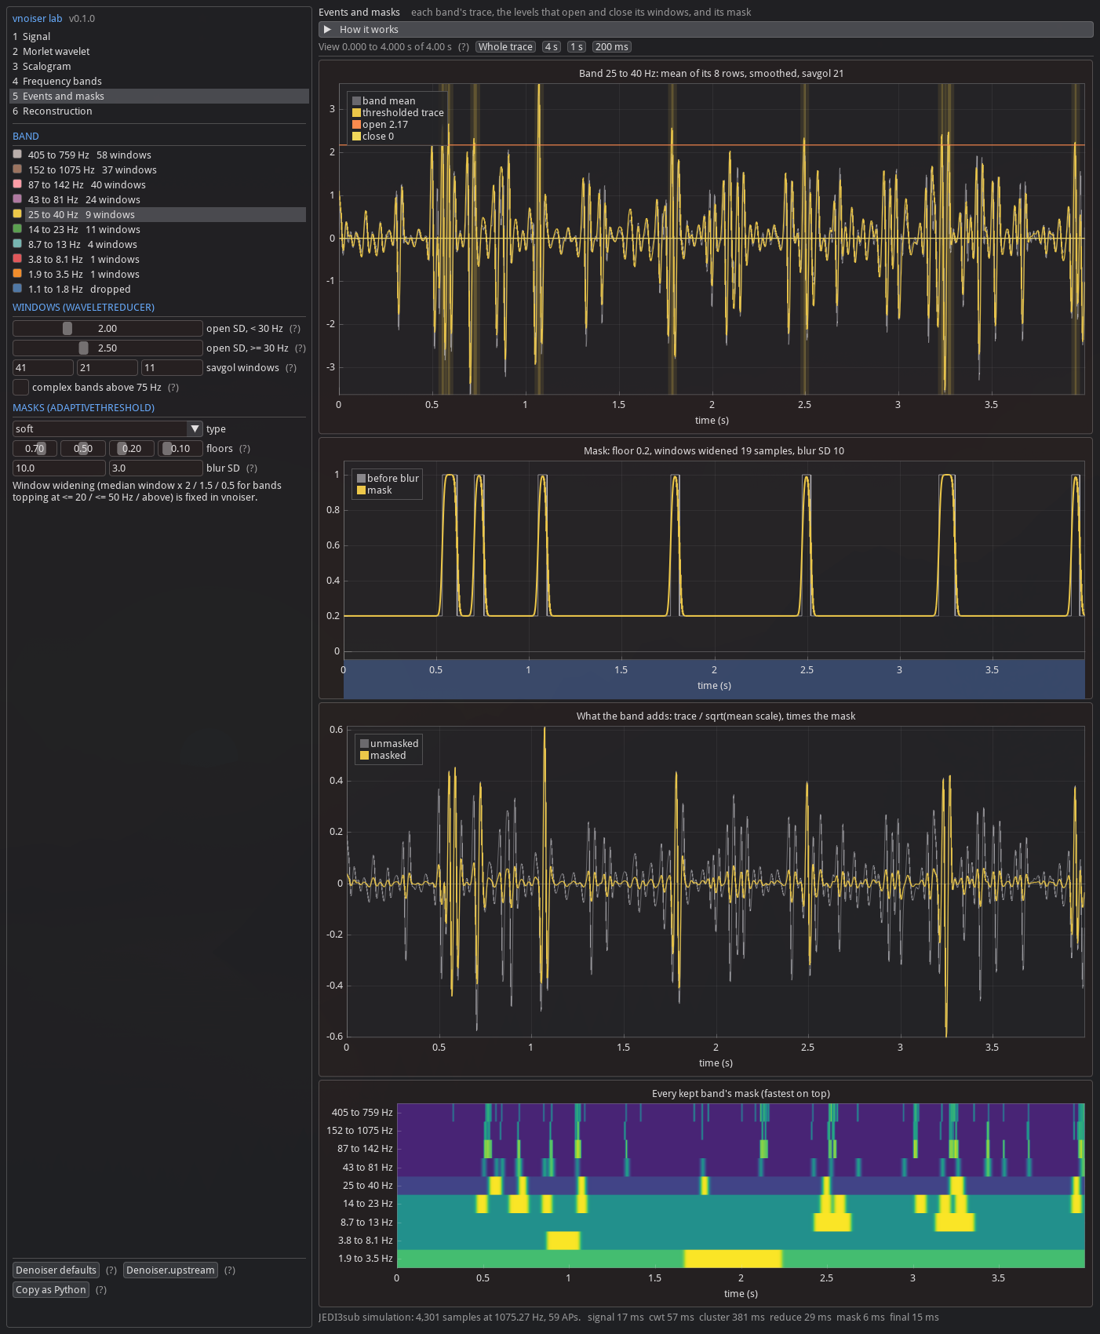
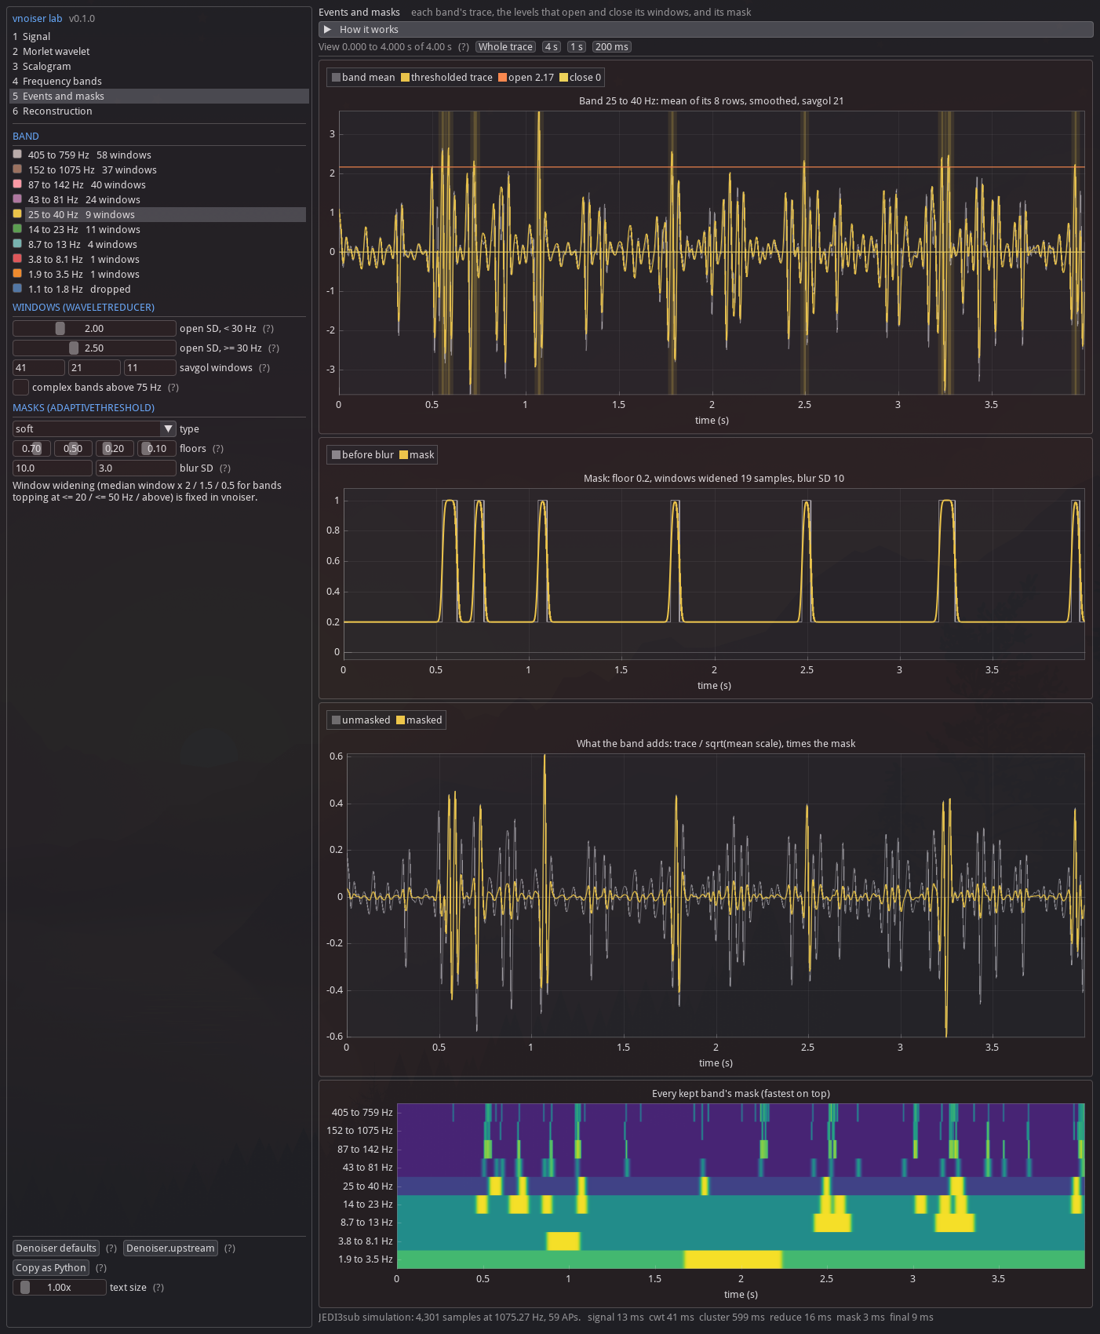
label ground truth, tighten ui and readme text

diff --git a/src/imgui_vnoiser/app.py b/src/imgui_vnoiser/app.py
@@ -23,7 +23,7 @@ WIDTH_RAIL_EM = 26
 
 # the rail: a page key, its name, and the line under the name on its page
 PAGES = (
-    ("signal", "1  Signal", "the trace going in: synthetic with a known clean trace, a test signal, or your own"),
+    ("signal", "1  Signal", "input trace: synthetic (with ground truth), a test signal, or a file"),
     ("wavelet", "2  Morlet wavelet", "the filter every row of the transform applies, and how its scales tile frequency"),
     ("scalogram", "3  Scalogram", "the trace after the wavelet transform: one row per scale, one column per sample"),
     ("bands", "4  Frequency bands", "rows that rise and fall together are grouped: PCA, then Ward clustering"),
@@ -36,8 +36,9 @@ ABOUT = {
     "signal": (
         "vnoiser expects a z-scored dF/F trace with depolarization positive (JEDI fluorescence falls on "
         "depolarization, so the pipeline flips its sign).",
-        "Synthetic traces carry the clean trace they were made from (green), so Reconstruction can tell how much "
-        "of the noise was removed and how much of the signal went with it.",
+        "Synthetic sources have a ground truth (green): the trace before noise was added. For the JEDI3sub "
+        "simulation it is the indicator response without line-scan noise or AP artifacts. Reconstruction compares "
+        "the denoised trace against it.",
         "Tones, the chirp, the impulse and the step are for seeing the transform itself: an impulse shows each "
         "row's wavelet, a chirp shows the rows lighting up one after another.",
     ),
@@ -49,8 +50,8 @@ ABOUT = {
         "bands overlap heavily.",
         "Every row has the same shape on a log-frequency axis (constant Q): fast rows are short and wide in "
         "frequency, slow rows long and narrow.",
-        "Rows centered above fs / 2 (scale below 2 C) see frequencies the recording cannot hold; they respond "
-        "to the noise floor at the top of the band.",
+        "Rows centered above fs / 2 (scale below 2 C) have their center frequency above Nyquist; they only pick up "
+        "the lower tail of their band.",
     ),
     "scalogram": (
         "Each row is the trace filtered by one scaled wavelet. Its magnitude says how much of that frequency is "
@@ -65,8 +66,8 @@ ABOUT = {
         "observations (30 components). Rows whose envelopes rise and fall together land close in PC space.",
         "Ward clustering on the first 10 PC scores builds the tree; cutting it at 10 clusters gives the bands "
         "(sublabels). The 5-cluster cut is computed but not used.",
-        "Neighboring rows overlap a lot in frequency, so bands come out as contiguous frequency ranges. Their "
-        "edges move with the data: an event-rich trace gets different bands from a quiet one.",
+        "Neighboring rows overlap in frequency, so bands are usually contiguous ranges, but rows near and above "
+        "fs / 2 can interleave between bands. Band edges depend on the trace.",
         "The gain curve is what summing the bands back does to a sine with every mask at 1: each band averages "
         "its rows, so the sum passes less than the input (savgol smoothing lowers it further below 75 Hz).",
     ),
@@ -85,8 +86,8 @@ ABOUT = {
         "The masked bands are summed (rescaled_signal), and a zero-phase FIR low-pass of the input (1 Hz, 2 s "
         "Hamming) is added back as the baseline: denoised = rescaled_signal + baseline.",
         "The archive's denoised_trace_scans.pkl holds the sum without the baseline; untick Add baseline to see it.",
-        "Leave a band out to see what it carries. The spectrum shows which frequencies were removed: the floor "
-        "between events in every band, and whole bands that never opened a window.",
+        "Untick a band to remove it from the sum. The spectrum shows what was removed: the masked-down part of "
+        "each band between events, and any band that opened no window.",
     ),
 }
 
@@ -393,7 +394,7 @@ class App:
             hint(tip)
         heading("Shape")
         _, sp.fs = imgui.input_float("fs (Hz)", sp.fs, 100.0, 1000.0, "%.4g")
-        hint("The lab's line scans run at 1075.2688 Hz. Changing it changes every row's frequency, not the coefficients.")
+        hint("The lab's line scans run at 1075.2688 Hz. Row frequency is C fs / scale, so the same scales cover different Hz at a different fs.")
         if sp.source != "file":
             _, sp.duration_s = imgui.slider_float("duration (s)", sp.duration_s, 0.5, 120.0, "%.1f", imgui.SliderFlags_.logarithmic)
             if sp.source != "jedi":
@@ -418,7 +419,7 @@ class App:
                 _, value = imgui.slider_int("column", sp.column + 1, 1, columns)
                 sp.column = value - 1
             _, sp.zscore = imgui.checkbox("z-score", sp.zscore)
-            hint("vnoiser's thresholds are in SDs of each band, so scale matters little, but the 1 Hz baseline and the plots read in z.")
+            hint("Subtract the mean and divide by the SD. Band thresholds are in SDs of each band, so this mostly changes the y units.")
         sp.fs = max(sp.fs, 1.0)
 
     def page_signal(self) -> None:
@@ -427,7 +428,7 @@ class App:
         if self.begin_time_plot("Input trace", h, "z"):
             self.line("raw", sig.x, P.RAW)
             if sig.truth is not None:
-                self.line("clean", sig.truth, P.TRUTH, 1.5)
+                self.line("ground truth", sig.truth, P.TRUTH, 1.5)
             for i, (name, times) in enumerate(sig.events_s.items()):
                 P.vlines(name, times, P.band_color(i + 2, 0.45))
             implot.end_plot()
@@ -438,7 +439,7 @@ class App:
             implot.setup_axis_scale(implot.ImAxis_.y1, implot.Scale_.log10)
             implot.plot_line("raw", run.psd["f"], run.psd["raw"], P.spec(P.RAW))
             if "truth" in run.psd:
-                implot.plot_line("clean", run.psd["f"], run.psd["truth"], P.spec(P.TRUTH, 1.5))
+                implot.plot_line("ground truth", run.psd["f"], run.psd["truth"], P.spec(P.TRUTH, 1.5))
             P.vlines("fs / 2", [sig.fs / 2], P.DIM)
             implot.end_plot()
 
@@ -482,7 +483,7 @@ class App:
             imgui.same_line()
             imgui.text(value)
         if w.freq_hz > fs / 2:
-            imgui.text_colored(P.WARN, "Above fs / 2: this row sees no real signal.")
+            imgui.text_colored(P.WARN, "Center frequency is above fs / 2.")
         above = int(np.sum(s.c * fs / s.scales > fs / 2))
         if above:
             imgui.text_wrapped(f"{above} of {int(s.n_scales)} rows sit above fs / 2 = {fs / 2:g} Hz.")
@@ -647,10 +648,10 @@ class App:
             implot.end_plot()
         mid = float(np.sqrt(freqs.min() * min(freqs.max(), sig.fs / 2)))
         gain = morlet.bank_sum(run.settings.b, run.settings.c, run.scales, sig.fs, np.array([mid]))[0]
-        if self.begin_time_plot(f"Every row's real part summed (no bands, no masks): overlapping rows give a gain of about {gain:.2g}", -1):
+        if self.begin_time_plot(f"Sum of Re W / sqrt(scale) over all rows, no bands or masks (gain about {gain:.2g})", -1):
             self.line("input", sig.x, P.RAW)
             if sig.truth is not None:
-                self.line("clean", sig.truth, P.TRUTH)
+                self.line("ground truth", sig.truth, P.TRUTH)
             self.line("sum of Re W / sqrt(scale)", run.all_rows, P.ACCENT, 1.5)
             implot.end_plot()
 
@@ -924,7 +925,7 @@ class App:
                 imgui.text_disabled(f"{name:<24}")
                 imgui.same_line()
                 imgui.text(f"{value:.4g}")
-            hint_text = "RMSE compares shapes: each trace's mean is removed first. Without the baseline the clean trace loses its own 1 Hz low-pass too."
+            hint_text = "RMSE and correlation subtract each trace's mean first. With Add baseline off, the ground truth has its own 1 Hz low-pass removed before comparing."
             hint(hint_text)
 
     def page_final(self) -> None:
@@ -949,7 +950,7 @@ class App:
         if self.begin_time_plot("Denoised trace", h):
             self.line("raw", sig.x, P.RAW)
             if sig.truth is not None:
-                self.line("clean", sig.truth, P.TRUTH, 1.5)
+                self.line("ground truth", sig.truth, P.TRUTH, 1.5)
             if run.settings.add_baseline:
                 self.line("baseline (1 Hz FIR)", run.baseline, P.CLOSE, 1.0)
             self.line("denoised", run.denoised, P.ACCENT, 1.8)
@@ -969,7 +970,7 @@ class App:
             f = run.psd["f"]
             implot.plot_line("raw", f, run.psd["raw"], P.spec(P.RAW))
             if "truth" in run.psd:
-                implot.plot_line("clean", f, run.psd["truth"], P.spec(P.TRUTH, 1.5))
+                implot.plot_line("ground truth", f, run.psd["truth"], P.spec(P.TRUTH, 1.5))
             implot.plot_line("denoised", f, run.psd["denoised"] + 1e-30, P.spec(P.ACCENT, 1.8))
             implot.end_plot()
 

diff --git a/src/imgui_vnoiser/signals.py b/src/imgui_vnoiser/signals.py
@@ -1,5 +1,5 @@
 """
-Input traces for the window: synthetic ones with a known clean trace, test signals that show what the wavelet
+Input traces for the window: synthetic ones with a ground truth, test signals that show what the wavelet
 transform does (tones, a chirp, an impulse, a step), and traces read from a file.
 """
 
@@ -11,7 +11,7 @@ import numpy as np
 
 # the source key, its name in the Signal page's list, and the line under it
 SOURCES = (
-    ("spikes", "Spikes and bumps", "fast spikes riding on slow bumps, white noise on top; the clean trace is known"),
+    ("spikes", "Spikes and bumps", "spikes on slow Gaussian bumps, plus white noise"),
     ("jedi", "JEDI3sub simulation", "vnoiser.simulate_jedi3sub_trace: APs, bursts, PSPs, ripples and line-scan noise, sign-flipped and z-scored"),
     ("tones", "Sum of tones", "sines at chosen frequencies, each switching on for part of the trace"),
     ("chirp", "Chirp", "one sine sweeping from a low to a high frequency, log-spaced like the wavelet rows"),
@@ -47,7 +47,7 @@ class Signal:
         name (str): What the plots call it
         fs (float): Sampling rate in Hz
         x (np.ndarray): The trace the denoiser runs on
-        truth (np.ndarray | None): The clean trace in the same units, when known
+        truth (np.ndarray | None): Ground truth in the same units, when known
         note (str): One line about where it came from
         columns (int): How many columns the source file had
     """
@@ -88,22 +88,22 @@ def make_signal(p: SignalParams) -> Signal:
     t = np.arange(n) / p.fs
     events = {}
     if p.source == "spikes":
-        clean, events = spikes_and_bumps(t)
+        truth, events = spikes_and_bumps(t)
     elif p.source == "tones":
-        clean = tones(t, parse_floats(p.tones_hz))
+        truth = tones(t, parse_floats(p.tones_hz))
     elif p.source == "chirp":
-        clean = chirp(t, p.chirp_lo_hz, p.chirp_hi_hz)
+        truth = chirp(t, p.chirp_lo_hz, p.chirp_hi_hz)
     elif p.source == "impulse":
-        clean = np.zeros(n)
-        clean[n // 2] = 1.0
+        truth = np.zeros(n)
+        truth[n // 2] = 1.0
     elif p.source == "step":
-        clean = (t >= t[-1] / 2).astype(float)
+        truth = (t >= t[-1] / 2).astype(float)
     else:
         raise ValueError(f"Unknown source {p.source!r}.")
     name = dict((k, label) for k, label, _ in SOURCES)[p.source]
-    x = clean + p.noise_sd * rng.standard_normal(n)
+    x = truth + p.noise_sd * rng.standard_normal(n)
     note = f"{n:,} samples at {p.fs:g} Hz, noise SD {p.noise_sd:g}"
-    return Signal(name=name, fs=p.fs, x=x, truth=clean, note=note, events_s=events)
+    return Signal(name=name, fs=p.fs, x=x, truth=truth, note=note, events_s=events)
 
 
 def spike_shape(d: np.ndarray) -> np.ndarray:

diff --git a/src/imgui_vnoiser/pipeline.py b/src/imgui_vnoiser/pipeline.py
@@ -382,7 +382,7 @@ STEPS = {
 
 
 def metrics(run: Run) -> dict:
-    """How the denoised trace compares with the raw one, and with the clean trace when known."""
+    """How the denoised trace compares with the raw one, and with the ground truth when known."""
     sig, out = run.signal, {}
     if run.denoised is None:
         return out
@@ -394,10 +394,10 @@ def metrics(run: Run) -> dict:
         if not run.settings.add_baseline:
             truth = truth - fir_lowpass(truth, sig.fs, run.settings.lp_cutoff, run.settings.fir_window_ms)
         # compare shapes: the denoiser does not promise the input's offset or gain
-        out["RMSE raw vs clean"] = float(np.sqrt(np.mean((x - x.mean() - (truth - truth.mean())) ** 2)))
-        out["RMSE denoised vs clean"] = float(np.sqrt(np.mean((y - y.mean() - (truth - truth.mean())) ** 2)))
-        out["corr raw vs clean"] = float(np.corrcoef(x, truth)[0, 1])
-        out["corr denoised vs clean"] = float(np.corrcoef(y, truth)[0, 1]) if np.std(y) > 0 else 0.0
+        out["RMSE raw vs ground truth"] = float(np.sqrt(np.mean((x - x.mean() - (truth - truth.mean())) ** 2)))
+        out["RMSE denoised vs ground truth"] = float(np.sqrt(np.mean((y - y.mean() - (truth - truth.mean())) ** 2)))
+        out["corr raw vs ground truth"] = float(np.corrcoef(x, truth)[0, 1])
+        out["corr denoised vs ground truth"] = float(np.corrcoef(y, truth)[0, 1]) if np.std(y) > 0 else 0.0
     return out
 
 

diff --git a/README.md b/README.md
@@ -1,10 +1,9 @@
 # imgui_vnoiser
 
-A desktop window for seeing what [vnoiser](https://github.com/FlynnOConnell/vnoiser)'s Morlet wavelet denoiser does
-to a voltage-imaging trace, one stage at a time. Every page is one stage of `vnoiser.Denoiser.run`, with that stage's
-parameters on the left and its plots on the right. Change a parameter and only that stage and the ones after it
-rerun. The stages call vnoiser's own classes, so what you see is what the package does: the final trace matches
-`Denoiser.run` to float precision (`tests/test_pipeline.py`).
+Interactive viewer for [vnoiser](https://github.com/FlynnOConnell/vnoiser)'s Morlet wavelet denoiser. Each page is
+one stage of `vnoiser.Denoiser.run`, with its parameters on the left and its plots on the right. Changing a
+parameter reruns that stage and the ones after it. The stages call vnoiser's classes directly, and the output
+matches `Denoiser.run` (`tests/test_pipeline.py`).
 
 Built on [imgui-bundle](https://github.com/pthom/imgui_bundle) (ImGui + ImPlot).
 
@@ -12,72 +11,68 @@ Built on [imgui-bundle](https://github.com/pthom/imgui_bundle) (ImGui + ImPlot).
 
 ## Install
 
-vnoiser is installed from a checkout next to this one (`../vnoiser`, see `[tool.uv.sources]` in `pyproject.toml`):
+Needs a vnoiser checkout next to this one (`../vnoiser`, see `[tool.uv.sources]` in `pyproject.toml`).
 
 ```bash
 git clone git@github.com:FlynnOConnell/vnoiser.git
-git clone <this repo> imgui_vnoiser
+git clone git@github.com:FlynnOConnell/imgui_vnoiser.git
 cd imgui_vnoiser
 uv venv -p 3.12 && uv pip install -e ".[dev]"
-imgui-vnoiser              # or: python -m imgui_vnoiser.app
+imgui-vnoiser
 ```
 
-### Text size
+## Text size
 
-On some HiDPI setups (Hyprland through XWayland, for one) GLFW reports a scale of 1, so the window cannot see that
-the monitor is scaled and changing the desktop scale has no effect on it. The window has its own scale:
+GLFW reports a content scale of 1 under XWayland, so the desktop scale has no effect on the window. Set it in the
+app instead:
 
-- **Ctrl +** / **Ctrl -** grow and shrink everything, **Ctrl 0** goes back to the detected scale.
-- **text size** at the bottom of the left rail does the same.
-- `imgui-vnoiser --scale 2`, or `IMGUI_VNOISER_SCALE=2`, sets it at start.
+- Ctrl + / Ctrl - to resize, Ctrl 0 to reset to the detected scale
+- the text size slider at the bottom of the left panel
+- `imgui-vnoiser --scale 2` or `IMGUI_VNOISER_SCALE=2`
 
-Without either, the window uses the last scale you picked (saved in `~/.imgui_vnoiser/settings.json`), else
-`GDK_SCALE`, else Hyprland's monitor scale, else 1.
+The last value is saved in `~/.imgui_vnoiser/settings.json`. With nothing saved, the default comes from
+`GDK_SCALE`, then Hyprland's monitor scale, then 1.
 
-## The pages
+## Pages
 
-| page | shows | parameters |
+| page | plots | parameters |
 |------|-------|------------|
-| 1 Signal | the input trace, its clean version when known, its spectrum | source, fs, duration, noise, file and column |
-| 2 Morlet wavelet | one row's wavelet in time, the time-frequency tile of every 10th row, every row's frequency response and what summing them passes | B, C, the scale range and count |
-| 3 Scalogram | \|W\|, \|W\| over its row's median, standardized \|W\| (what the clustering sees) or Re W; one row against the input; every row summed | the color mode, the row |
-| 4 Frequency bands | which rows went to which band, the gain of summing the bands, rows in PC space, explained variance, the Ward tree with its cut | PCA components, PCs clustered, linkage, band count |
-| 5 Events and masks | one band's trace with its open and close levels and windows, its mask before and after the blur, what it adds; every band's mask as an image | open levels, savgol windows, complex fast bands, soft/hard, floors, blur |
-| 6 Reconstruction | each band's contribution stacked, the denoised trace with the baseline, what was removed, spectra | the baseline filter, adding it, which bands go in the sum |
+| 1 Signal | input trace, ground truth, power spectrum | source, fs, duration, noise SD, file and column |
+| 2 Morlet wavelet | wavelet at one row, time-frequency tiles, frequency response of every row, summed gain | B, C, scale range, number of rows |
+| 3 Scalogram | \|W\|, \|W\| / row median, standardized \|W\|, or Re W; one row against the input; sum of all rows | color mode, row |
+| 4 Frequency bands | band membership over frequency, band-sum gain, PCA scatter, explained variance, Ward tree | PCA components, PCs clustered, linkage, number of bands |
+| 5 Events and masks | band trace with open/close levels and windows, mask before and after blur, masked band, all masks | open levels, savgol windows, complex fast bands, soft/hard, floors, blur SD |
+| 6 Reconstruction | per-band contributions, denoised vs raw vs ground truth, removed signal, spectra | baseline filter, add baseline, bands in the sum |
 
-Every time plot shares one time window: drag to pan, scroll to zoom, double-click to fit, or use the
-buttons over the plots. **How it works** on each page says what the stage does in vnoiser's terms.
-
-At the bottom of the rail: **Denoiser defaults**, **Denoiser.upstream** (the archive's settings), and
-**Copy as Python**, which copies a `vnoiser.Denoiser(...)` call with the current settings.
+All time plots share one x range (drag to pan, scroll to zoom, double-click to fit). The buttons at the bottom of
+the left panel reset to `Denoiser()` defaults, switch to `Denoiser.upstream`, or copy the equivalent `Denoiser(...)`
+call to the clipboard.
 
 ## Things to try
 
-1. **What a row is.** Signal: *Impulse*, noise 0. Scalogram, Re W: each row shows its own wavelet, short at the top
-   and long at the bottom. Morlet wavelet: pick *Narrowband* and look again; the cone widens and events smear.
-2. **Rows tile frequency.** Signal: *Chirp*. The rows light up one after another. Morlet wavelet: rows above fs / 2
-   (yellow line) have nothing real to respond to.
-3. **The bands come from the data.** Frequency bands: compare *Spikes and bumps* with *JEDI3sub*. The edges move,
-   and fast bands can interleave (a band's rows need not be contiguous).
-4. **Oscillations are dropped, transients kept.** Signal: *Sum of tones*, one tone (e.g. `20`), noise 0. A sine
-   peaks at 1.41 SD, never reaching the 2 or 2.5 SD open level, so its band opens no window and is dropped.
-   Reconstruction: the tone is gone.
-5. **The sum does not preserve amplitude.** Frequency bands: the gain curve sits around 0.5 to 0.9 because each
-   band averages its rows rather than summing them. Reconstruction: spikes come back smaller than in the clean
-   trace.
-6. **Soft vs hard masks.** Events and masks: switch to *hard* and watch the floor go to 0.05; Reconstruction: the
-   noise between events drops and slow drifts go with it.
-7. **What each band carries.** Reconstruction: untick bands one at a time.
+1. Impulse source, noise 0, Scalogram in Re W mode: each row shows its wavelet. Switch the wavelet to Narrowband
+   and the rows get longer.
+2. Chirp source: rows respond in sequence as the frequency sweeps. Rows above fs / 2 (yellow line) respond
+   only weakly.
+3. Compare the bands for Spikes and bumps vs JEDI3sub. Band edges change with the trace, and fast bands can
+   interleave.
+4. Sum of tones with a single tone (e.g. `20`) and noise 0. A sine peaks at 1.41 SD, below the 2 / 2.5 SD open
+   level, so its band opens no window and is dropped. The tone is missing from the reconstruction.
+5. The band-sum gain on the Frequency bands page is about 0.5 to 0.9, because each band averages its rows instead of
+   summing them. Spikes in the reconstruction are smaller than in the ground truth.
+6. Switch masks from soft to hard: the floor drops to 0.05, removing more noise between events and more of the slow
+   components.
+7. Untick bands on the Reconstruction page to see what each contributes.
 
-## Files
+## Layout
 
-| path | holds |
-|------|-------|
-| `src/imgui_vnoiser/signals.py` | input traces: synthetic, test signals, files |
-| `src/imgui_vnoiser/morlet.py` | the cmor wavelet in seconds and hertz: shape, widths, frequency response |
-| `src/imgui_vnoiser/pipeline.py` | `Settings`, the staged `compute`, per-band details |
-| `src/imgui_vnoiser/plotting.py` | ImPlot helpers: decimated lines, shaded windows, colors |
-| `src/imgui_vnoiser/config.py` | the saved UI scale and its detection |
+| file | contents |
+|------|----------|
+| `src/imgui_vnoiser/signals.py` | synthetic traces, test signals, file loading |
+| `src/imgui_vnoiser/morlet.py` | cmor wavelet shape, widths and frequency response |
+| `src/imgui_vnoiser/pipeline.py` | `Settings`, staged `compute`, per-band details |
+| `src/imgui_vnoiser/plotting.py` | ImPlot helpers |
+| `src/imgui_vnoiser/config.py` | saved UI scale and its detection |
 | `src/imgui_vnoiser/app.py` | the window |
 
-See [ARCHITECTURE.md](ARCHITECTURE.md) for how the parts fit.
+See [ARCHITECTURE.md](ARCHITECTURE.md).

diff --git a/ARCHITECTURE.md b/ARCHITECTURE.md
@@ -3,7 +3,7 @@
 ## Modules
 
 - `signals.py`: `SignalParams` (what the Signal page edits) and `make_signal`, returning a `Signal`: the trace,
-  its sampling rate, the clean trace when known, and event times to mark.
+  its sampling rate, the ground truth when known, and event times to mark.
 - `morlet.py`: pywt's `cmorB-C` written out in seconds and hertz: `wavelet_in_time`, `response` (the Gaussian
   frequency response of one row), `widths` (envelope SD, half-power band, Q, cycles), `bank_sum`, and `cwt`, which is
   exactly the call `Denoiser._cwt` makes.
